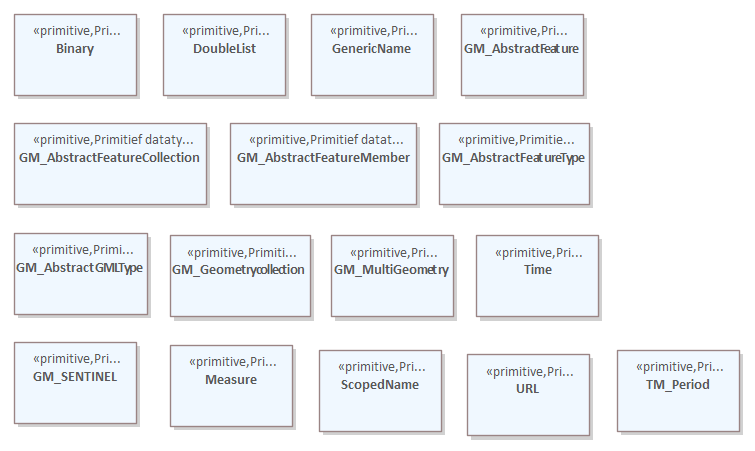
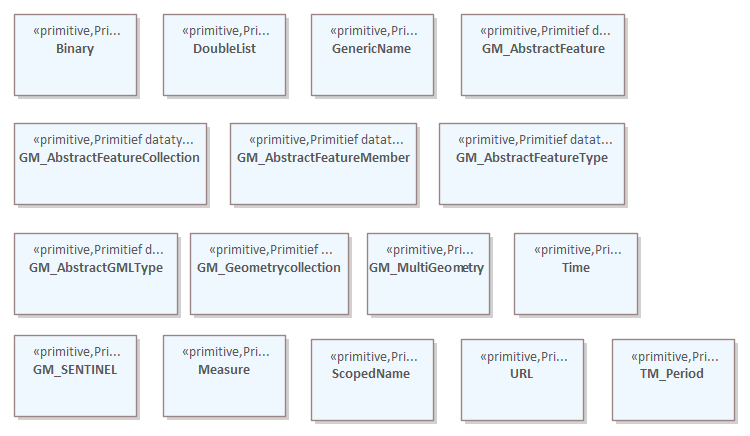
MIMLM-Geonovum-1.0-0-20240216-20240816-145452

diff --git a/data/geonovum-cat.respec.html b/data/geonovum-cat.respec.html
@@ -1,12 +1,12 @@
 
 <!DOCTYPE HTML><section id="cat" class="normative">
    <h2>Gegevensdefinitie</h2>
-   <!--MIMCM-Geonovum-1.0-0-20240216-20240216-095125 imvertor 3.0.0-->
+   <!--MIMLM-Geonovum-1.0-0-20240216-20240816-145452 imvertor 4.1.2-->
    <section id="EAID_3F2B2788_0AB5_4fa3_BA47_93A8E6E2A920">
       <h3>   datatypen-overig - overzicht</h3>
       <div class="imageinfo overview">
-         <figure><img src="data/Images/EAID_3F2B2788_0AB5_4fa3_BA47_93A8E6E2A920.png" usemap="#imagemap-EAID_3F2B2788_0AB5_4fa3_BA47_93A8E6E2A920" alt="Diagram &#xA;                        Overzicht van Geonovum datatypen.&#xA;                     "><figcaption>datatypen-overig</figcaption>
-         </figure><map name="imagemap-EAID_3F2B2788_0AB5_4fa3_BA47_93A8E6E2A920"><area shape="rect" alt="URL" coords="467,354,590,436" href="#global_class_DatatypenOverig_URL"><area shape="rect" alt="TM_Period" coords="617,350,740,432" href="#global_class_DatatypenOverig_TM_Period"><area shape="rect" alt="Time" coords="476,235,599,317" href="#global_class_DatatypenOverig_Time"><area shape="rect" alt="ScopedName" coords="319,350,442,432" href="#global_class_DatatypenOverig_ScopedName"><area shape="rect" alt="Measure" coords="170,345,293,427" href="#global_class_DatatypenOverig_Measure"><area shape="rect" alt="GM_SENTINEL" coords="14,342,137,424" href="#global_class_DatatypenOverig_GM_SENTINEL"><area shape="rect" alt="GM_MultiGeometry" coords="331,235,454,317" href="#global_class_DatatypenOverig_GM_MultiGeometry"><area shape="rect" alt="GM_Geometrycollection" coords="170,235,311,317" href="#global_class_DatatypenOverig_GM_Geometrycollection"><area shape="rect" alt="GM_AbstractGMLType" coords="14,233,148,315" href="#global_class_DatatypenOverig_GM_AbstractGMLType"><area shape="rect" alt="GM_AbstractFeatureType" coords="439,123,590,205" href="#global_class_DatatypenOverig_GM_AbstractFeatureType"><area shape="rect" alt="GM_AbstractFeatureMember" coords="230,123,417,205" href="#global_class_DatatypenOverig_GM_AbstractFeatureMember"><area shape="rect" alt="GM_AbstractFeatureCollection" coords="14,123,207,205" href="#global_class_DatatypenOverig_GM_AbstractFeatureCollection"><area shape="rect" alt="GM_AbstractFeature" coords="461,14,584,96" href="#global_class_DatatypenOverig_GM_AbstractFeature"><area shape="rect" alt="GenericName" coords="311,14,434,96" href="#global_class_DatatypenOverig_GenericName"><area shape="rect" alt="DoubleList" coords="163,14,286,96" href="#global_class_DatatypenOverig_DoubleList"><area shape="rect" alt="Binary" coords="14,14,137,96" href="#global_class_DatatypenOverig_Binary"></map><p>
+         <figure><img src="data/Images/EAID_3F2B2788_0AB5_4fa3_BA47_93A8E6E2A920.png" usemap="#imagemap-EAID_3F2B2788_0AB5_4fa3_BA47_93A8E6E2A920" alt="Diagram: Overzicht van Geonovum datatypen."><figcaption>datatypen-overig</figcaption>
+         </figure><map name="imagemap-EAID_3F2B2788_0AB5_4fa3_BA47_93A8E6E2A920"><area shape="rect" alt="URL" coords="461,339,584,421" href="#global_class_datatypenoverig_URL"><area shape="rect" alt="TM_Period" coords="612,339,735,421" href="#global_class_datatypenoverig_TM_Period"><area shape="rect" alt="Time" coords="514,233,638,315" href="#global_class_datatypenoverig_Time"><area shape="rect" alt="ScopedName" coords="311,339,434,421" href="#global_class_datatypenoverig_ScopedName"><area shape="rect" alt="Measure" coords="163,335,286,417" href="#global_class_datatypenoverig_Measure"><area shape="rect" alt="GM_SENTINEL" coords="14,335,137,417" href="#global_class_datatypenoverig_GM_SENTINEL"><area shape="rect" alt="GM_MultiGeometry" coords="367,233,490,315" href="#global_class_datatypenoverig_GM_MultiGeometry"><area shape="rect" alt="GM_Geometrycollection" coords="190,233,349,315" href="#global_class_datatypenoverig_GM_Geometrycollection"><area shape="rect" alt="GM_AbstractGMLType" coords="14,233,178,315" href="#global_class_datatypenoverig_GM_AbstractGMLType"><area shape="rect" alt="GM_AbstractFeatureType" coords="439,123,625,205" href="#global_class_datatypenoverig_GM_AbstractFeatureType"><area shape="rect" alt="GM_AbstractFeatureMember" coords="230,123,417,205" href="#global_class_datatypenoverig_GM_AbstractFeatureMember"><area shape="rect" alt="GM_AbstractFeatureCollection" coords="14,123,207,205" href="#global_class_datatypenoverig_GM_AbstractFeatureCollection"><area shape="rect" alt="GM_AbstractFeature" coords="461,14,625,96" href="#global_class_datatypenoverig_GM_AbstractFeature"><area shape="rect" alt="GenericName" coords="311,14,434,96" href="#global_class_datatypenoverig_GenericName"><area shape="rect" alt="DoubleList" coords="163,14,286,96" href="#global_class_datatypenoverig_DoubleList"><area shape="rect" alt="Binary" coords="14,14,137,96" href="#global_class_datatypenoverig_Binary"></map><p>
             
             <p>Overzicht van Geonovum datatypen.</p>
             </p>
@@ -15,37 +15,7 @@
    <section>
       <h3>Primitieve datatypen   </h3>
       
-      <section id="global_class_DatatypenOverig_URL">
-         <h4>Primitief datatype   URL</h4>
-         
-         <table style="width: 100%;">
-            <colgroup style="width: 30%;"></colgroup>
-            <colgroup style="width: 70%;"></colgroup>
-            <tbody>
-               <tr>
-                  <th>Naam</th>
-                  <td>URL</td>
-               </tr>
-            </tbody>
-         </table>
-         </section>
-      
-      <section id="global_class_DatatypenOverig_TM_Period">
-         <h4>Primitief datatype   TM_Period</h4>
-         
-         <table style="width: 100%;">
-            <colgroup style="width: 30%;"></colgroup>
-            <colgroup style="width: 70%;"></colgroup>
-            <tbody>
-               <tr>
-                  <th>Naam</th>
-                  <td>TM_Period</td>
-               </tr>
-            </tbody>
-         </table>
-         </section>
-      
-      <section id="global_class_DatatypenOverig_Binary">
+      <section id="global_class_datatypenoverig_Binary">
          <h4>Primitief datatype   Binary</h4>
          
          <table style="width: 100%;">
@@ -60,7 +30,7 @@
          </table>
          </section>
       
-      <section id="global_class_DatatypenOverig_Time">
+      <section id="global_class_datatypenoverig_Time">
          <h4>Primitief datatype   Time</h4>
          
          <table style="width: 100%;">
@@ -84,82 +54,7 @@
          </table>
          </section>
       
-      <section id="global_class_DatatypenOverig_GM_SENTINEL">
-         <h4>Primitief datatype   GM_SENTINEL</h4>
-         
-         <table style="width: 100%;">
-            <colgroup style="width: 30%;"></colgroup>
-            <colgroup style="width: 70%;"></colgroup>
-            <tbody>
-               <tr>
-                  <th>Naam</th>
-                  <td>GM_SENTINEL</td>
-               </tr>
-            </tbody>
-         </table>
-         </section>
-      
-      <section id="global_class_DatatypenOverig_ScopedName">
-         <h4>Primitief datatype   ScopedName</h4>
-         
-         <table style="width: 100%;">
-            <colgroup style="width: 30%;"></colgroup>
-            <colgroup style="width: 70%;"></colgroup>
-            <tbody>
-               <tr>
-                  <th>Naam</th>
-                  <td>ScopedName</td>
-               </tr>
-            </tbody>
-         </table>
-         </section>
-      
-      <section id="global_class_DatatypenOverig_GM_AbstractFeatureType">
-         <h4>Primitief datatype   GM_AbstractFeatureType</h4>
-         
-         <table style="width: 100%;">
-            <colgroup style="width: 30%;"></colgroup>
-            <colgroup style="width: 70%;"></colgroup>
-            <tbody>
-               <tr>
-                  <th>Naam</th>
-                  <td>GM_AbstractFeatureType</td>
-               </tr>
-            </tbody>
-         </table>
-         </section>
-      
-      <section id="global_class_DatatypenOverig_GM_Geometrycollection">
-         <h4>Primitief datatype   GM_Geometrycollection</h4>
-         
-         <table style="width: 100%;">
-            <colgroup style="width: 30%;"></colgroup>
-            <colgroup style="width: 70%;"></colgroup>
-            <tbody>
-               <tr>
-                  <th>Naam</th>
-                  <td>GM_Geometrycollection</td>
-               </tr>
-            </tbody>
-         </table>
-         </section>
-      
-      <section id="global_class_DatatypenOverig_Measure">
-         <h4>Primitief datatype   Measure</h4>
-         
-         <table style="width: 100%;">
-            <colgroup style="width: 30%;"></colgroup>
-            <colgroup style="width: 70%;"></colgroup>
-            <tbody>
-               <tr>
-                  <th>Naam</th>
-                  <td>Measure</td>
-               </tr>
-            </tbody>
-         </table>
-         </section>
-      
-      <section id="global_class_DatatypenOverig_GenericName">
+      <section id="global_class_datatypenoverig_GenericName">
          <h4>Primitief datatype   GenericName</h4>
          
          <table style="width: 100%;">
@@ -174,8 +69,8 @@
          </table>
          </section>
       
-      <section id="global_class_DatatypenOverig_GM_AbstractFeatureMember">
-         <h4>Primitief datatype   GM_AbstractFeatureMember</h4>
+      <section id="global_class_datatypenoverig_Measure">
+         <h4>Primitief datatype   Measure</h4>
          
          <table style="width: 100%;">
             <colgroup style="width: 30%;"></colgroup>
@@ -183,14 +78,14 @@
             <tbody>
                <tr>
                   <th>Naam</th>
-                  <td>GM_AbstractFeatureMember</td>
+                  <td>Measure</td>
                </tr>
             </tbody>
          </table>
          </section>
       
-      <section id="global_class_DatatypenOverig_GM_AbstractFeature">
-         <h4>Primitief datatype   GM_AbstractFeature</h4>
+      <section id="global_class_datatypenoverig_DoubleList">
+         <h4>Primitief datatype   DoubleList</h4>
          
          <table style="width: 100%;">
             <colgroup style="width: 30%;"></colgroup>
@@ -198,14 +93,14 @@
             <tbody>
                <tr>
                   <th>Naam</th>
-                  <td>GM_AbstractFeature</td>
+                  <td>DoubleList</td>
                </tr>
             </tbody>
          </table>
          </section>
       
-      <section id="global_class_DatatypenOverig_GM_AbstractFeatureCollection">
-         <h4>Primitief datatype   GM_AbstractFeatureCollection</h4>
+      <section id="global_class_datatypenoverig_GM_SENTINEL">
+         <h4>Primitief datatype   GM_SENTINEL</h4>
          
          <table style="width: 100%;">
             <colgroup style="width: 30%;"></colgroup>
@@ -213,13 +108,43 @@
             <tbody>
                <tr>
                   <th>Naam</th>
-                  <td>GM_AbstractFeatureCollection</td>
+                  <td>GM_SENTINEL</td>
                </tr>
             </tbody>
          </table>
          </section>
       
-      <section id="global_class_DatatypenOverig_GM_AbstractGMLType">
+      <section id="global_class_datatypenoverig_GM_Geometrycollection">
+         <h4>Primitief datatype   GM_Geometrycollection</h4>
+         
+         <table style="width: 100%;">
+            <colgroup style="width: 30%;"></colgroup>
+            <colgroup style="width: 70%;"></colgroup>
+            <tbody>
+               <tr>
+                  <th>Naam</th>
+                  <td>GM_Geometrycollection</td>
+               </tr>
+            </tbody>
+         </table>
+         </section>
+      
+      <section id="global_class_datatypenoverig_ScopedName">
+         <h4>Primitief datatype   ScopedName</h4>
+         
+         <table style="width: 100%;">
+            <colgroup style="width: 30%;"></colgroup>
+            <colgroup style="width: 70%;"></colgroup>
+            <tbody>
+               <tr>
+                  <th>Naam</th>
+                  <td>ScopedName</td>
+               </tr>
+            </tbody>
+         </table>
+         </section>
+      
+      <section id="global_class_datatypenoverig_GM_AbstractGMLType">
          <h4>Primitief datatype   GM_AbstractGMLType</h4>
          
          <table style="width: 100%;">
@@ -234,7 +159,67 @@
          </table>
          </section>
       
-      <section id="global_class_DatatypenOverig_GM_MultiGeometry">
+      <section id="global_class_datatypenoverig_GM_AbstractFeatureType">
+         <h4>Primitief datatype   GM_AbstractFeatureType</h4>
+         
+         <table style="width: 100%;">
+            <colgroup style="width: 30%;"></colgroup>
+            <colgroup style="width: 70%;"></colgroup>
+            <tbody>
+               <tr>
+                  <th>Naam</th>
+                  <td>GM_AbstractFeatureType</td>
+               </tr>
+            </tbody>
+         </table>
+         </section>
+      
+      <section id="global_class_datatypenoverig_GM_AbstractFeatureCollection">
+         <h4>Primitief datatype   GM_AbstractFeatureCollection</h4>
+         
+         <table style="width: 100%;">
+            <colgroup style="width: 30%;"></colgroup>
+            <colgroup style="width: 70%;"></colgroup>
+            <tbody>
+               <tr>
+                  <th>Naam</th>
+                  <td>GM_AbstractFeatureCollection</td>
+               </tr>
+            </tbody>
+         </table>
+         </section>
+      
+      <section id="global_class_datatypenoverig_GM_AbstractFeatureMember">
+         <h4>Primitief datatype   GM_AbstractFeatureMember</h4>
+         
+         <table style="width: 100%;">
+            <colgroup style="width: 30%;"></colgroup>
+            <colgroup style="width: 70%;"></colgroup>
+            <tbody>
+               <tr>
+                  <th>Naam</th>
+                  <td>GM_AbstractFeatureMember</td>
+               </tr>
+            </tbody>
+         </table>
+         </section>
+      
+      <section id="global_class_datatypenoverig_GM_AbstractFeature">
+         <h4>Primitief datatype   GM_AbstractFeature</h4>
+         
+         <table style="width: 100%;">
+            <colgroup style="width: 30%;"></colgroup>
+            <colgroup style="width: 70%;"></colgroup>
+            <tbody>
+               <tr>
+                  <th>Naam</th>
+                  <td>GM_AbstractFeature</td>
+               </tr>
+            </tbody>
+         </table>
+         </section>
+      
+      <section id="global_class_datatypenoverig_GM_MultiGeometry">
          <h4>Primitief datatype   GM_MultiGeometry</h4>
          
          <table style="width: 100%;">
@@ -249,8 +234,8 @@
          </table>
          </section>
       
-      <section id="global_class_DatatypenOverig_DoubleList">
-         <h4>Primitief datatype   DoubleList</h4>
+      <section id="global_class_datatypenoverig_URL">
+         <h4>Primitief datatype   URL</h4>
          
          <table style="width: 100%;">
             <colgroup style="width: 30%;"></colgroup>
@@ -258,7 +243,22 @@
             <tbody>
                <tr>
                   <th>Naam</th>
-                  <td>DoubleList</td>
+                  <td>URL</td>
+               </tr>
+            </tbody>
+         </table>
+         </section>
+      
+      <section id="global_class_datatypenoverig_TM_Period">
+         <h4>Primitief datatype   TM_Period</h4>
+         
+         <table style="width: 100%;">
+            <colgroup style="width: 30%;"></colgroup>
+            <colgroup style="width: 70%;"></colgroup>
+            <tbody>
+               <tr>
+                  <th>Naam</th>
+                  <td>TM_Period</td>
                </tr>
             </tbody>
          </table>
